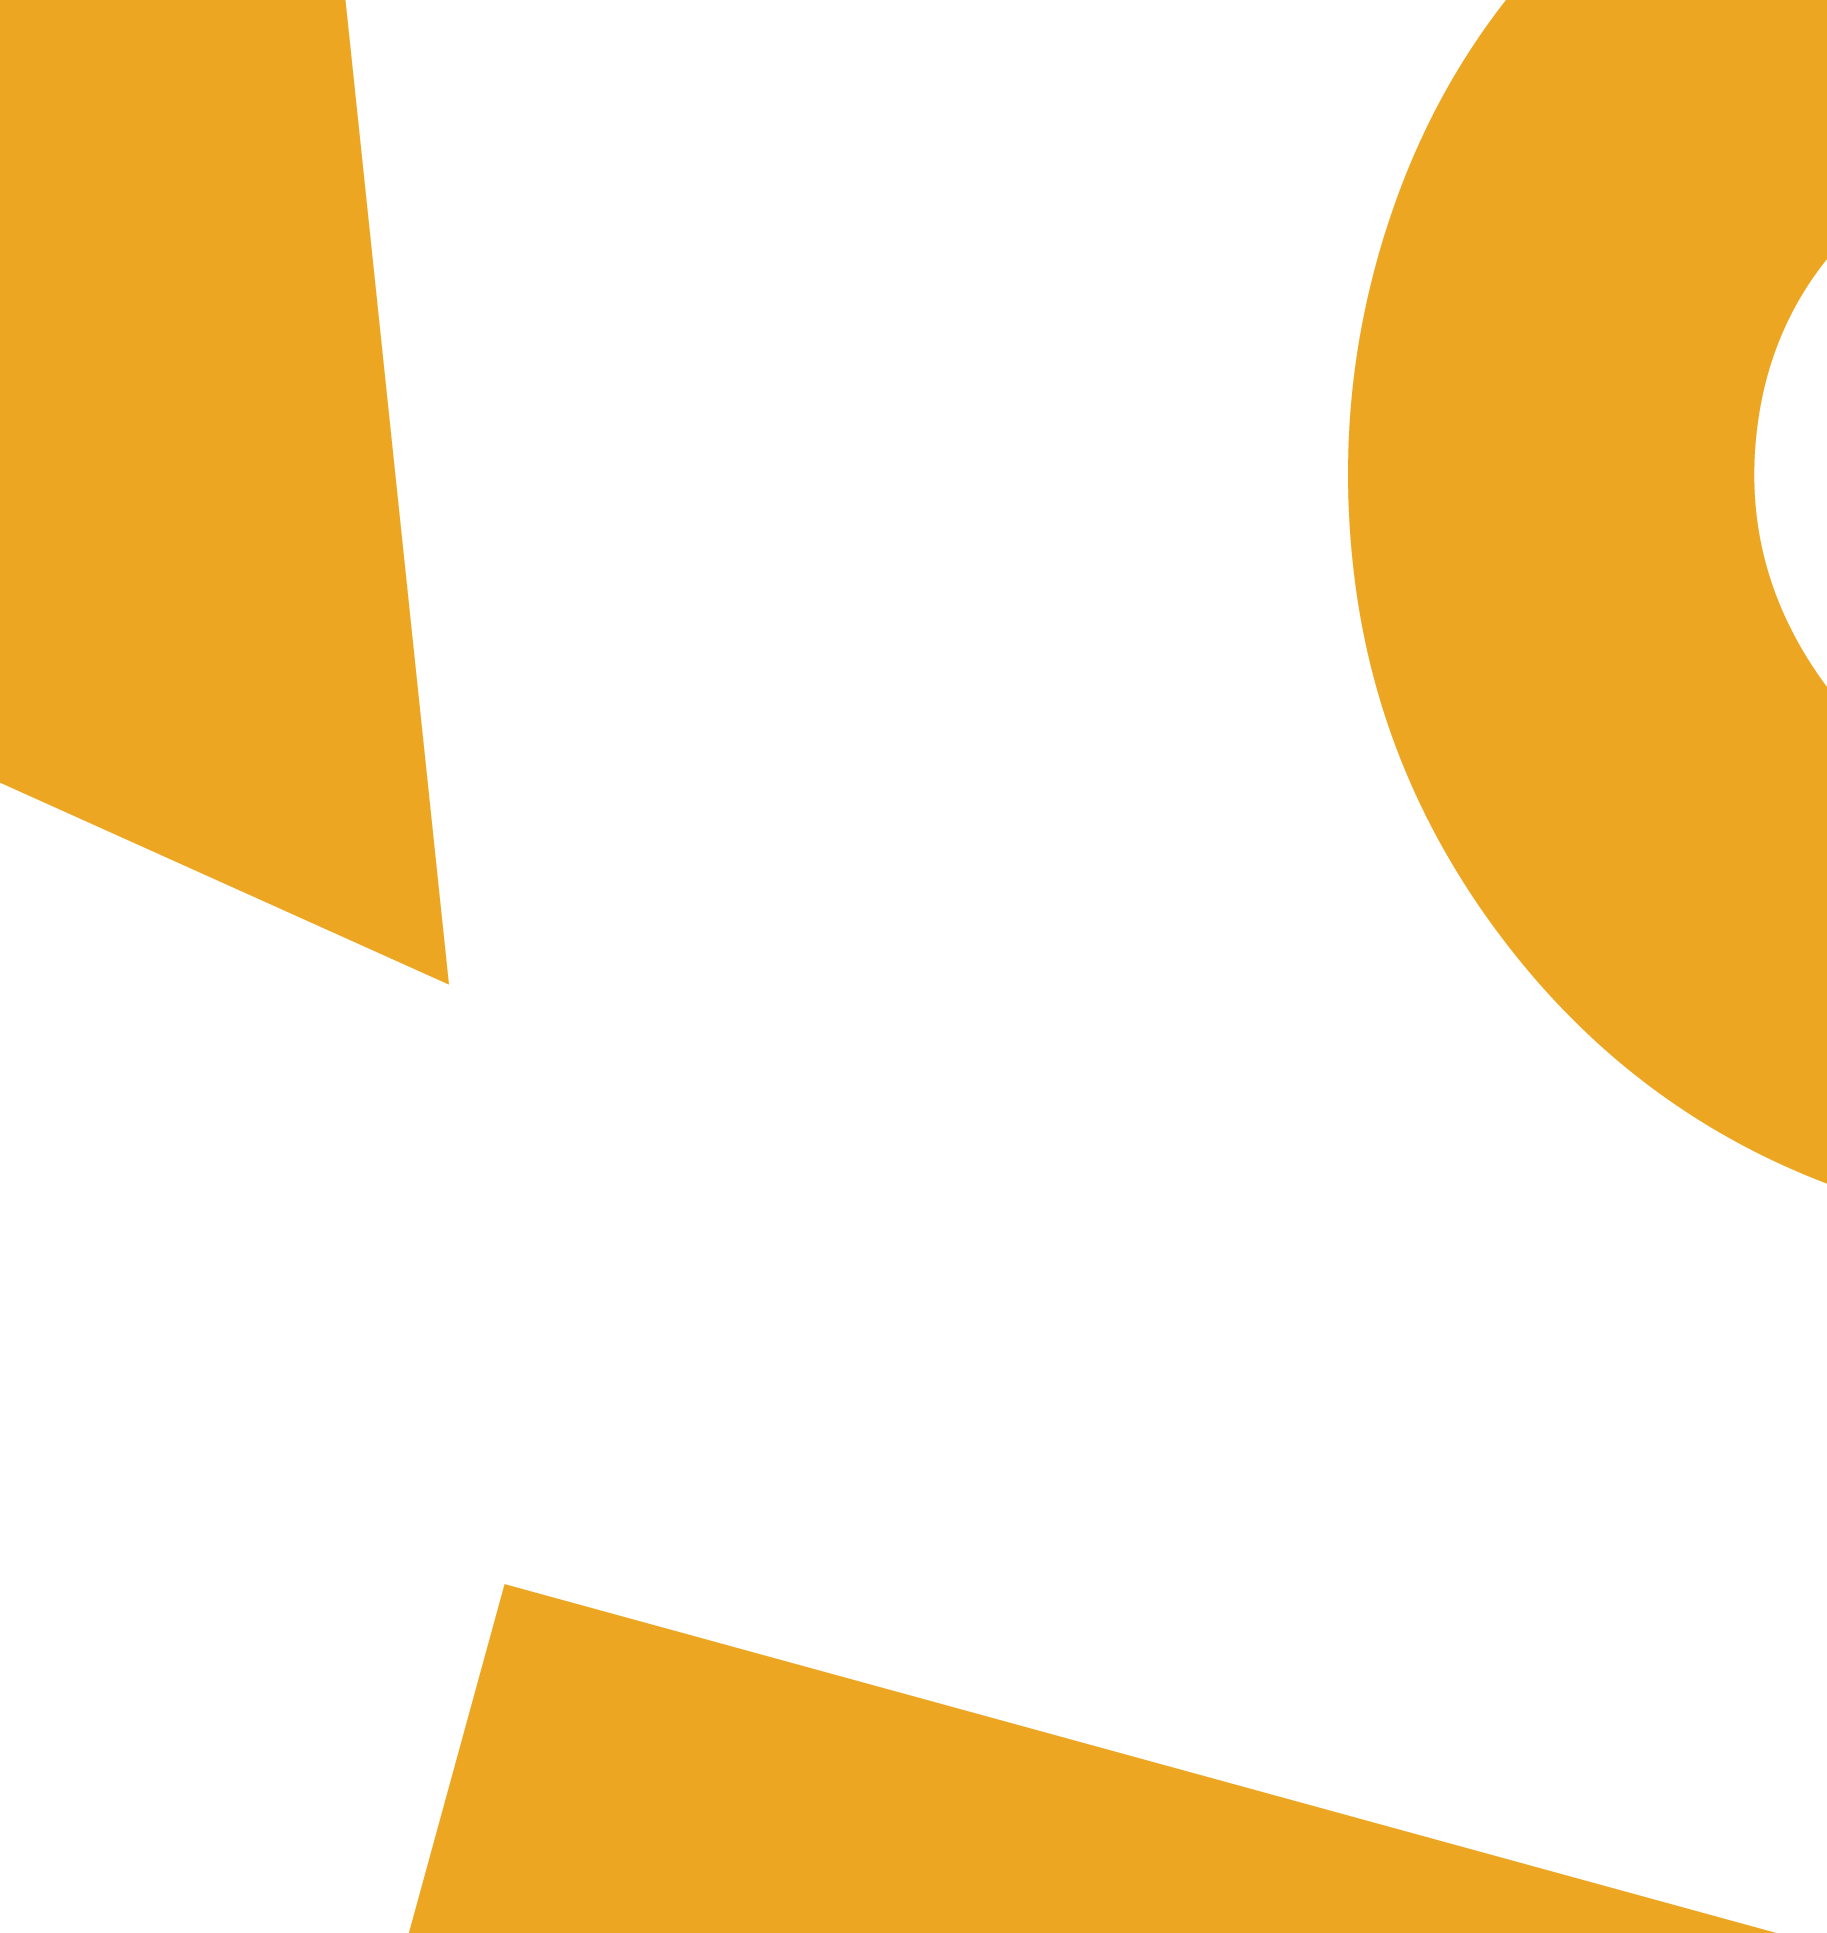
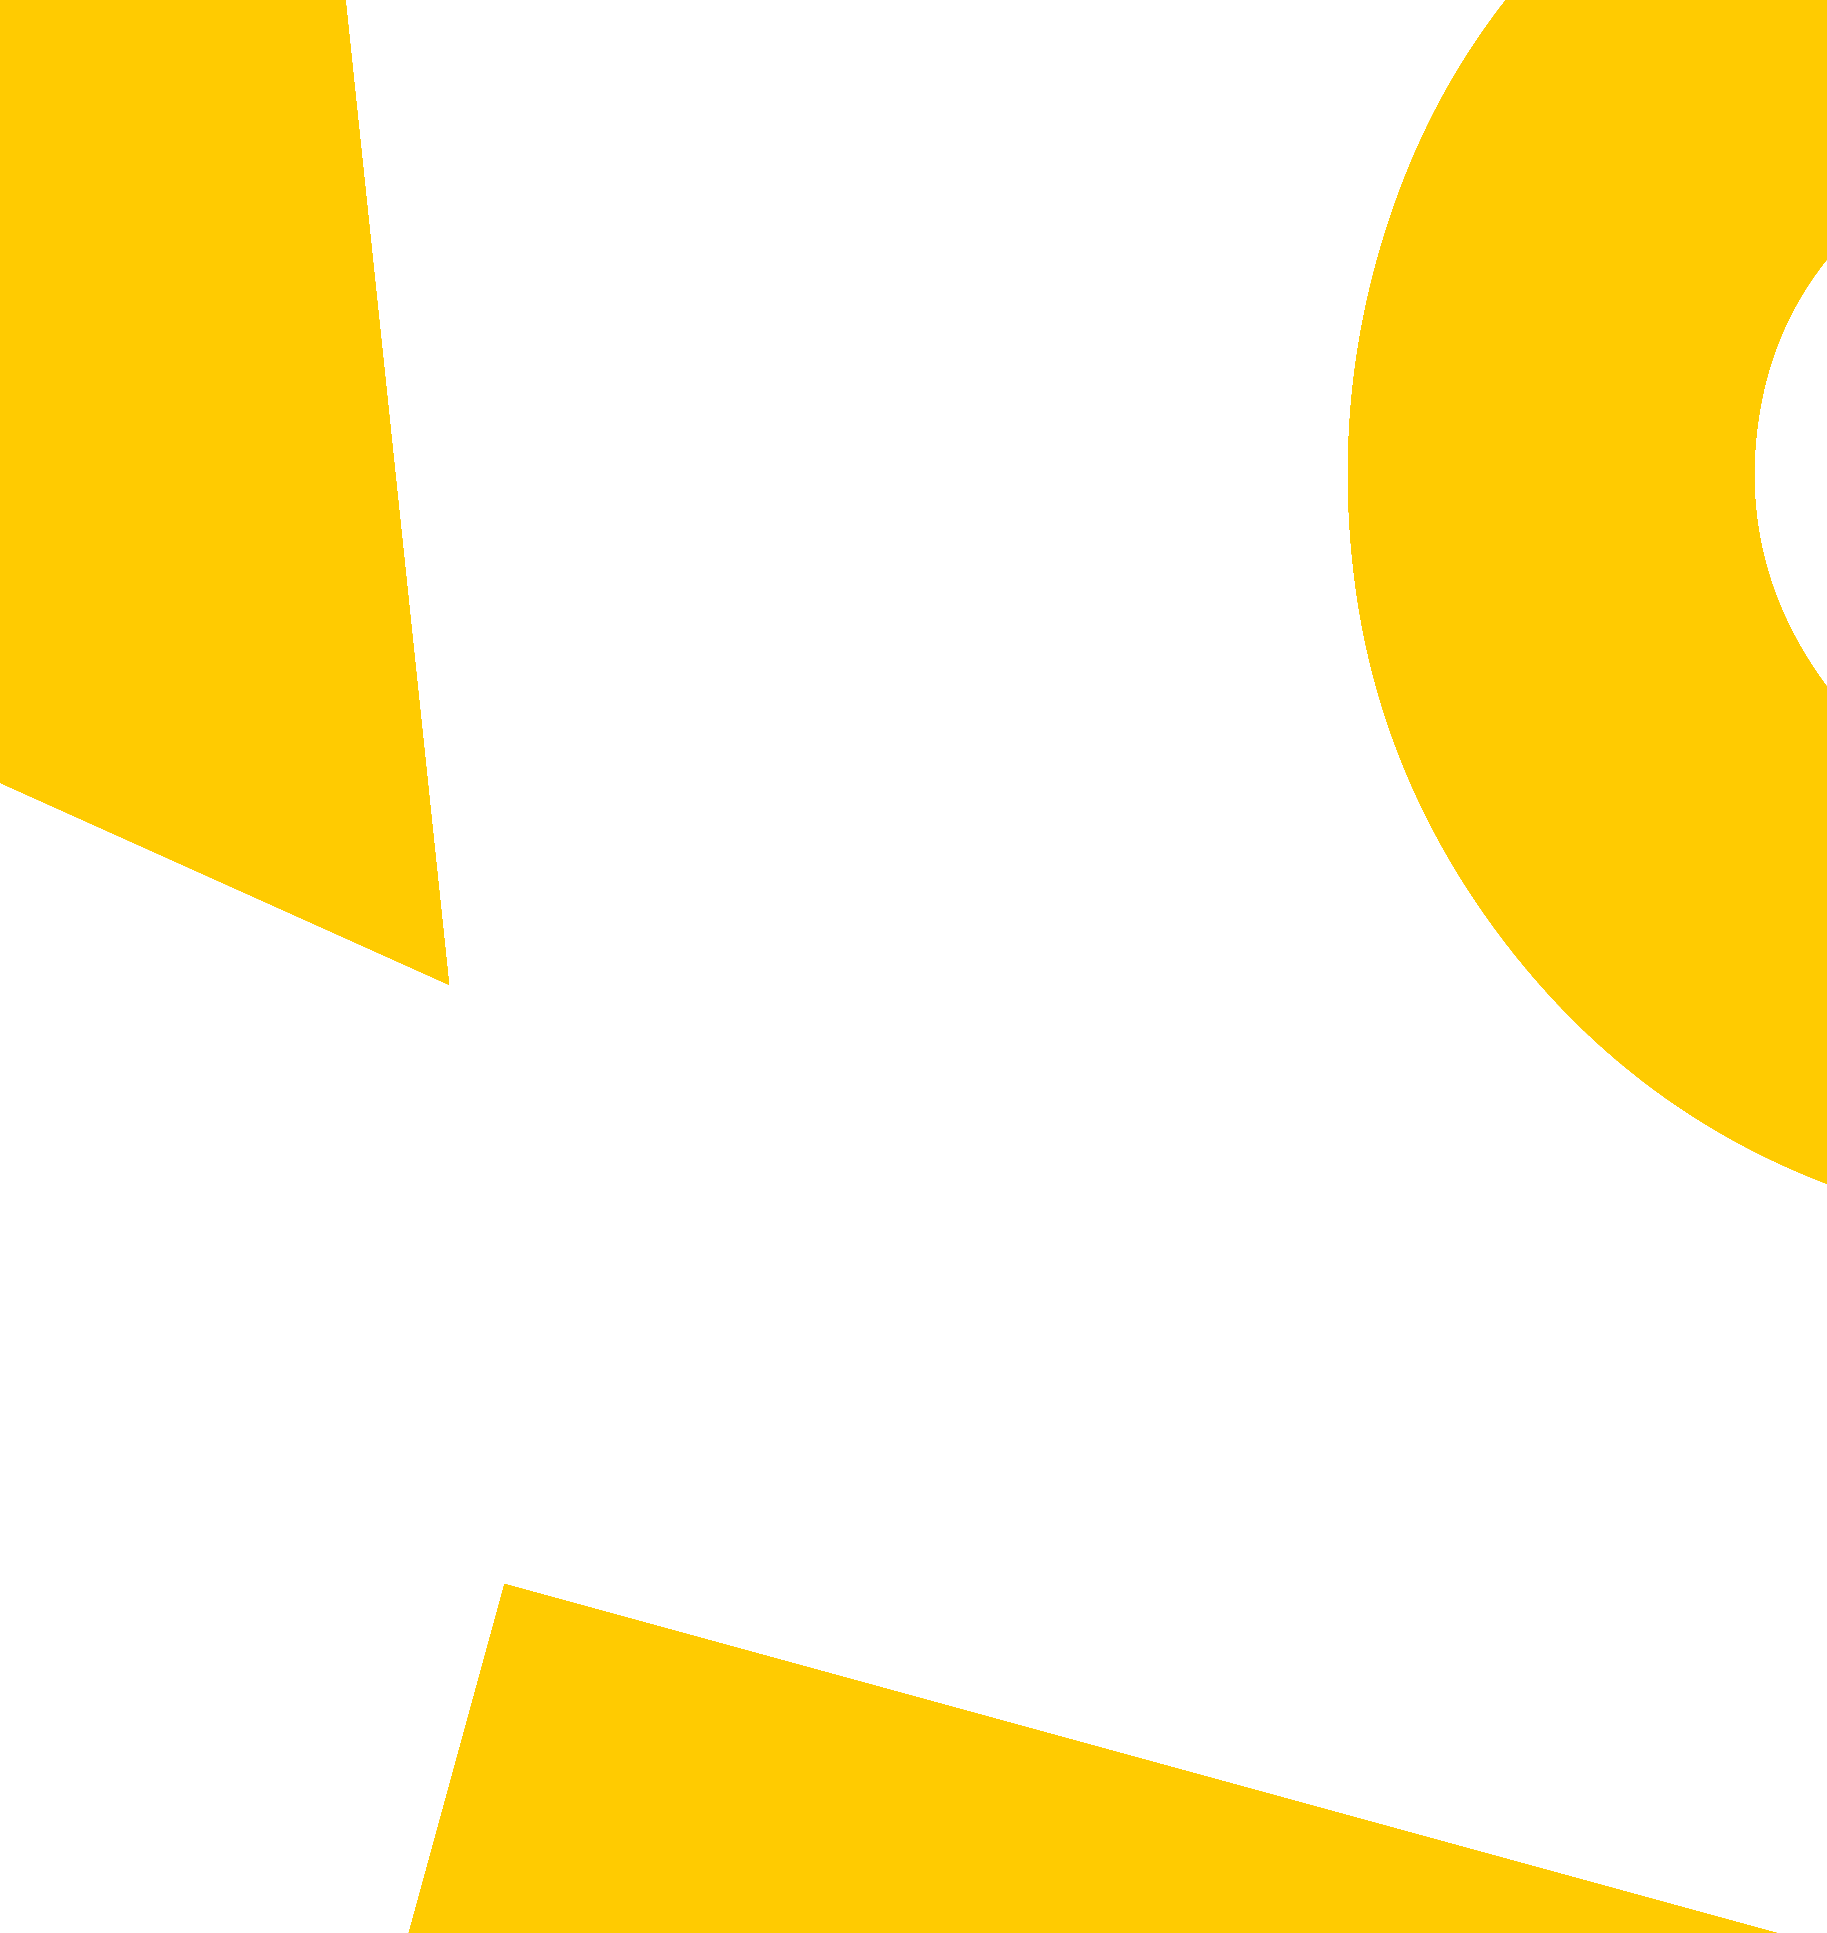
tabs + updated coloiurs

Changed region(s): [[0.7176, 0.0, 1.0, 0.6208], [0.0, 0.0, 0.2496, 0.5277], [0.2184, 0.807, 0.9672, 1.0]]

diff --git a/src/templates/layouts/tabs/index.js b/src/templates/layouts/tabs/index.js
@@ -1,9 +1,9 @@
-import { Box, Tabs, TabList, TabPanel, TabPanels, HStack, Text, Heading, Flex, Stack, chakra, useTab, useStyles } from '@chakra-ui/react'
+import { Button, Box, Tabs, TabList, TabPanel, TabPanels, HStack, Text, Heading, Flex, Stack, chakra, useTab, useStyles, Spacer } from '@chakra-ui/react'
 import { GatsbyImage, getImage } from 'gatsby-plugin-image'
 import React from 'react'
-import { MdPermPhoneMsg } from 'react-icons/md'
 import parse from "html-react-parser"
 import { BsLightningFill } from 'react-icons/bs'
+import { Link } from 'gatsby'
 
 export const TabSection = ( props ) => {
 	console.log(props)
@@ -22,7 +22,7 @@ export const TabSection = ( props ) => {
     const styles = useStyles()
 
     return (
-      <StyledTab __css={styles.tab} {...tabProps} p="10" cursor="pointer" shadow="none" _selected={{ color: "white", bg: tabsCol }}>
+      <StyledTab __css={styles.tab} {...tabProps} p="5" cursor="pointer" shadow="none" bg="gray.200" boxShadow="-2px -1px 2px 0px #0000000a" _selected={{ color: "white", bg: tabsCol }}>
         {tabProps.children}
       </StyledTab>
     )
@@ -31,24 +31,31 @@ export const TabSection = ( props ) => {
 	return (
 		// <p>tabsssssss</p>
 		<Box>
-			{title && (
-				<Heading
-					className="tabblock__header--title"
-					size="4xl"
-					p="8"
-				> 
-					{title}
-				</Heading>
-			)}
+		
 
 			<Tabs borderTop="1px solid #f67011" isFitted>
 
-				<TabList>
-					{
-						tabs?.map((tab, i) => (
-							<CustomTab key={i}><Text fontSize="xl" fontWeight="600">{tab.title}</Text></CustomTab>
-						))
-					}
+				<TabList flexWrap="wrap">
+					{title && (
+						<Heading
+							className="tabblock__header--title"
+							size="4xl"
+							p="8"
+							flex="1 1 50%"
+						> 
+							{title}
+						</Heading>
+					)}
+
+					<Flex flex="1 1 50%" justifyContent="flex-start">
+						{
+							tabs?.map((tab, i) => (
+								<CustomTab key={i}><Text fontSize="xl" fontWeight="600" minW="50px">{tab.title}</Text></CustomTab>
+							))
+						}
+					</Flex>
+					
+
 				</TabList>
 
 				<TabPanels>
@@ -57,9 +64,11 @@ export const TabSection = ( props ) => {
 						// console.log(tab.image.localFile)
 						const imageData = getImage(tab.image?.localFile)
 						// console.log(imageData)
+						const buttonTitle = tab?.button?.title
+						const buttonLink = tab?.button?.url
 						return (
 							<TabPanel p={0} key={i}>
-								<Box className="tabblock" >
+								<Box className="tabblock" bg="dYellow.50">
 									<Flex 
 										className="tabblock__header" 
 										textAlign={{ base: 'center', md: 'start', lg: 'start' }} 
@@ -71,25 +80,49 @@ export const TabSection = ( props ) => {
 											lg: "400px",
 										}}
 										justify="center"
+										
 									>
-										<Box flex="1 1 50%" p="8" bg={tabHeaderBgCol} color="gray.800" order={i%2 === 0 ? 2 : 1}>
-											<Heading
-												className="tabblock__header--title"
-												size="4xl"
-												color={textColour}
-											> 
-												{parse(tab?.title)}
-											</Heading>
-											{/* <Text
-												className="tabblock__header--subtitle"
-												fontSize={{ base: 'xl', lg: '2xl' }}
-												mt="4"
-												maxW="2xl"
-												mx={{ base: 'auto', lg: 'unset' }}
-											>
-												{parse(tab.subTitle)}
-											</Text> */}
-										</Box>
+										<Flex direction="column" flex="1 1 50%" p="8" bg={tabHeaderBgCol} color="gray.800" order={i%2 === 0 ? 2 : 1}>
+											{tab?.title && (
+												<Heading
+													className="tabblock__header--title"
+													size="4xl"
+													color={textColour}
+												> 
+													{parse(tab?.title)}
+												</Heading>
+											)}
+											{tab?.subTitle && (
+												<Text
+													className="tabblock__header--subtitle"
+													fontSize={{ base: 'xl', lg: '2xl' }}
+													mt="4"
+													maxW="2xl"
+													mx={{ base: 'auto', lg: 'unset' }}
+												>
+												{parse(tab?.subTitle)}
+												</Text>
+											)}
+											<Spacer />
+											{tab?.button && (
+												<Button 
+													as={Link} 
+													textDecoration="none" 
+													fontWeight="500" 
+													direction="down" 
+													to={buttonLink} 
+													mt="8" 
+													size="md"
+													rounded="full" 
+													bg="dYellow.300" 
+													color="gray.800"
+													w="fit-content"
+													alignSelf={{base:"center", md:"flex-start"}}
+												>
+													{buttonTitle}
+												</Button>
+											)}
+										</Flex>
 										{tab?.image && (
 											<Box position="relative" w="full" h="full" flex="1 1 50%" order={i%2 === 0 ? 1 : 2}>
 												<GatsbyImage
@@ -113,19 +146,23 @@ export const TabSection = ( props ) => {
 										maxW="2xl"
 										mx="auto"
 									>
-										<Box className="tabblock__body--content wp-content" >
-											{parse(tab?.text)}
-										</Box>
-										<Stack mt={{ base: '8', md: '8' }} spacing="4">
-											{
-												tab?.list?.map((item, i) => (
-													<HStack key={i} spacing="5" color='blue.600' color="gray.800">
-														<Box fontSize="3xl" as={BsLightningFill} color="dBlue.300"/>
-														<Text fontSize={{ base: 'md', md: 'lg' }}>{item.text}</Text>
-													</HStack>
-												))
-											}
-										</Stack>
+										{tab.text && (
+											<Box className="tabblock__body--content wp-content">
+												{parse(tab?.text)}
+											</Box>
+										)}
+										{tab?.list && (
+											<Stack mt={{ base: '8', md: '8' }} spacing="4">
+												{
+													tab?.list?.map((item, i) => (
+														<HStack key={i} spacing="5" color='blue.600' color="gray.800">
+															<Box fontSize="3xl" as={BsLightningFill} color="dBlue.300"/>
+															<Text fontSize={{ base: 'md', md: 'lg' }}>{item.text}</Text>
+														</HStack>
+													))
+												}
+											</Stack>
+										)}
 									</Box>
 								</Box>
 

diff --git a/src/templates/layouts/fixed-talent-half-hero/index.js b/src/templates/layouts/fixed-talent-half-hero/index.js
@@ -26,7 +26,7 @@ export const FixedTalentHalfHero = ({ bgCol, textColour }) => {
   return (
     <Flex 
       as="section" 
-      h={{base: "unset",md:"80vh"}}
+      h={{base: "unset",lg:"80vh"}}
       bg={bgCol}
       direction="column" 
       position="relative" 
@@ -42,11 +42,11 @@ export const FixedTalentHalfHero = ({ bgCol, textColour }) => {
         bottom="0"
         left="12"
         zIndex="10"
-        display={{base:"none", md:"block"}}
+        display={{base:"none", lg:"block"}}
         // style={{transform: `translateY(-${offsetY * 0.5}px)`}}
       >
         <StaticImage 
-          src="../../../images/cutout2-flipped.png" 
+          src="../../../images/talentCutout.png" 
           alt="young person smiling"
           // height={400}
           fit="cover"
@@ -61,11 +61,11 @@ export const FixedTalentHalfHero = ({ bgCol, textColour }) => {
         bottom="0"
         left="8"
         zIndex="5"
-        display={{base:"none", md:"block"}}
+        display={{base:"none", lg:"block"}}
         // style={{transform: `translatex(-${offsetY * 0.05}px)`}}
       >
         <StaticImage 
-          src="../../../images/cutout2-shadow-flipped.png" 
+          src="../../../images/talentShadow.png" 
           alt="shadow"
           // height={400}
           fit="cover"
@@ -77,7 +77,7 @@ export const FixedTalentHalfHero = ({ bgCol, textColour }) => {
 
       <Box
         maxW="2xl"
-        w={{base:"100%", md:"fit-content"}}
+        w={{base:"100%", lg:"fit-content"}}
         // mx="auto"
         // px={{ base: '4', lg: '8' }}
         py={{ base: '0', sm: '2' }}
@@ -113,7 +113,7 @@ export const FixedTalentHalfHero = ({ bgCol, textColour }) => {
           </Button>
         </LinkBox>
       </Box>
-      <Box pos="relative" display={{base:"block", md:"none"}} w="80%" alignSelf="flex-end">
+      <Box pos="relative" display={{base:"block", lg:"none"}} w="80%" alignSelf="flex-end">
         <Box 
           w="100%"
           h="auto"
@@ -122,7 +122,7 @@ export const FixedTalentHalfHero = ({ bgCol, textColour }) => {
           // style={{transform: `translateY(-${offsetY * 0.5}px)`}}
         >
           <StaticImage 
-            src="../../../images/cutout2-flipped.png" 
+            src="../../../images/talentCutout.png" 
             alt="young person smiling"
             // height={400}
             fit="cover"
@@ -140,7 +140,7 @@ export const FixedTalentHalfHero = ({ bgCol, textColour }) => {
           // style={{transform: `translatex(-${offsetY * 0.05}px)`}}
         >
           <StaticImage 
-            src="../../../images/cutout2-shadow-flipped.png" 
+            src="../../../images/talentShadow.png" 
             alt="shadow"
             // height={400}
             fit="cover"

diff --git a/src/templates/layouts/fixed-maker-half-hero/index.js b/src/templates/layouts/fixed-maker-half-hero/index.js
@@ -28,7 +28,7 @@ export const FixedMakerHalfHero = ({bgCol, textColour}) => {
       py={{ base: '4', sm:"12", md: '12' }}
     >
       <Box
-        maxW="3xl"
+        maxW={{md:'lg', lg:"3xl"}}
         // mx="auto"
         // px={{ base: '4', lg: '8' }}
         py={{ base: '2', sm: '2' }}
@@ -42,7 +42,7 @@ export const FixedMakerHalfHero = ({bgCol, textColour}) => {
         
         <Heading 
           as="h2" 
-          fontSize={{base: '70px', sm: '85px', md: '120px'}}  
+          fontSize={{base: '70px', sm: '85px', md: '80px', lg: '120px'}}  
           lineHeight="1.1"
           letterSpacing="tight"
           color="inherit"
@@ -67,18 +67,19 @@ export const FixedMakerHalfHero = ({bgCol, textColour}) => {
         
       </Box>
       <Box 
-        w="60%"
-        h="95%"
+        w="50%"
+        h="105%"
         pos="absolute"
         bottom="0"
         right="0"
         zIndex="5"
         top="50%"
-        style={{transform: `translateY(-50%`}}
+        style={{transform: `translateY(-50%) rotate(90deg)`}}
         display={{base:"none", md:"block"}}
+        // transform="rotate(90deg)"
       >
         <StaticImage 
-          src="../../../images/fixedHalfHeroPattern.png" 
+          src="../../../images/fixedHalf.png" 
           alt="shadow"
           // height={400}
           fit="cover"
@@ -93,7 +94,7 @@ export const FixedMakerHalfHero = ({bgCol, textColour}) => {
         display={{base:"block", md:"none"}}
       >
         <StaticImage 
-          src="../../../images/fixedHalfHeroPattern.png" 
+          src="../../../images/fixedHalf.png" 
           alt="shadow"
           // height={400}
           fit="cover"

diff --git a/gatsby-node.js b/gatsby-node.js
@@ -189,6 +189,11 @@ const getPages = async ({ graphql, reporter }) => {
                 title
                 tabs {
                   title
+                  subTitle
+                  button {
+                    title
+                    url
+                  }
                   text
                   list {
                     text
@@ -289,6 +294,7 @@ const getPages = async ({ graphql, reporter }) => {
                 text
               }
               ... on WpPage_Pagebuilder_Layouts_PageBlock {
+                fieldGroupName
                 headerBgCol
                 textColour
                 content

diff --git a/src/templates/layouts/page-block/index.js b/src/templates/layouts/page-block/index.js
@@ -1,10 +1,10 @@
-import { Box, Flex, Heading, Text } from '@chakra-ui/react'
-import { GatsbyImage, getImage } from 'gatsby-plugin-image'
+import { Box, Flex } from '@chakra-ui/react'
+import { getImage } from 'gatsby-plugin-image'
 import React from 'react'
 import parse from "html-react-parser"
 import { Header } from '../../../components/layout/Header'
 
-export const PageBlock = ({ title, subTitle, content, image, headerBgCol, textColour, ...rest }) => {
+export const PageBlock = ({ title, subTitle, content, image, headerBgCol, textColour }) => {
 
 	const imageData = getImage(image?.localFile)
 	const pagetype="page"

diff --git a/src/templates/layouts/fixed-homepage-hero/index.js b/src/templates/layouts/fixed-homepage-hero/index.js
@@ -183,7 +183,7 @@ export const FixedHomepageHero = ({ button, bgCol, textColour }) => {
         >
           <StaticImage
             placeholder="none" 
-            src="../../../images/fixedHeroPattern.png" 
+            src="../../../images/fixedHero.png" 
             alt="shape pattern"
             // height={400}
             fit="cover"

diff --git a/src/@chakra-ui/gatsby-plugin/theme.js b/src/@chakra-ui/gatsby-plugin/theme.js
@@ -19,10 +19,10 @@ const theme = {
 			500: "#024C50",
 		},
 		dYellow: {
-			50:	 "#FFF1AD",
+			50:	 "#fffcd2",
 			100: "#FFE45C",
 			200: "#FFDD33",
-			300: "#EDA621",
+			300: "#ffcb01",
 			400: "#E0BB00",
 			500: "#B89900",
 			600: "#8F7700",
